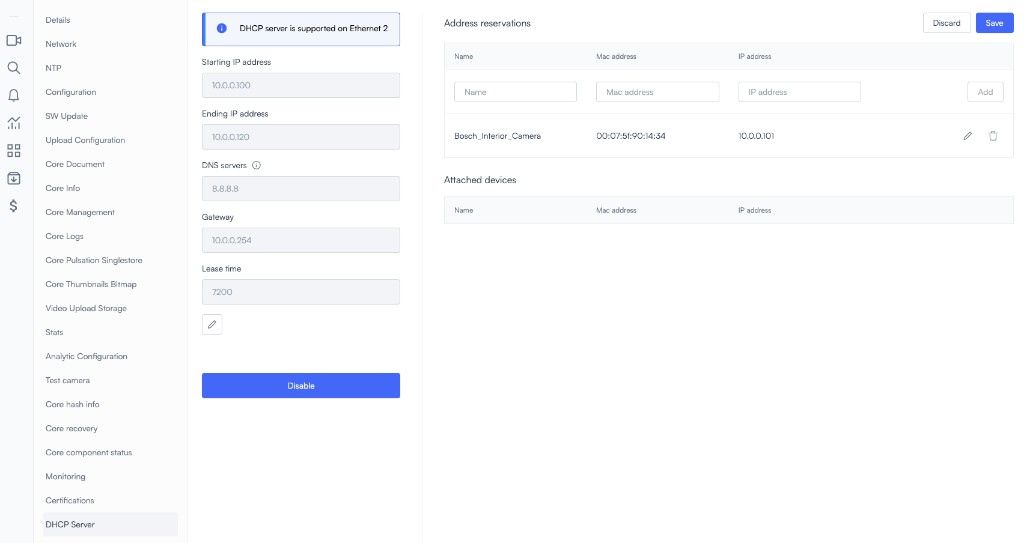
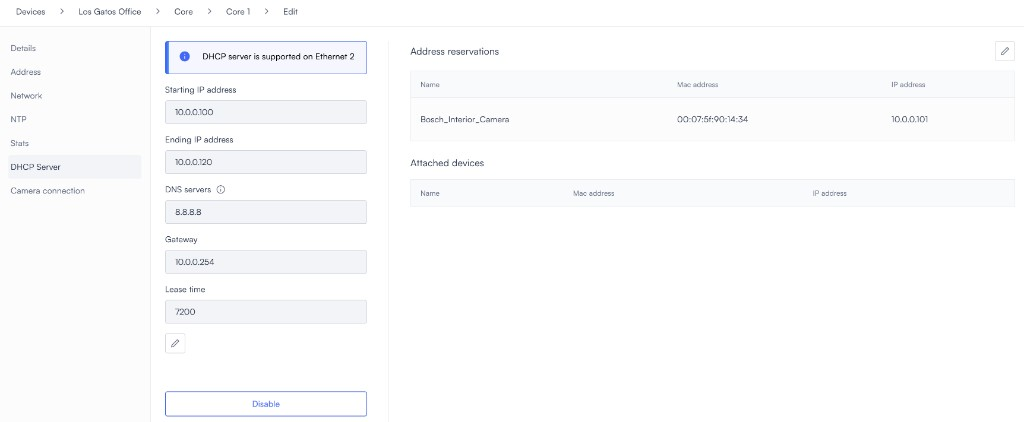
updated images and steps

diff --git a/set-up-cameras-and-devices/network-and-infrastructure-configuration/configure-lumana-core-as-a-dhcp-server.md b/set-up-cameras-and-devices/network-and-infrastructure-configuration/configure-lumana-core-as-a-dhcp-server.md
@@ -24,13 +24,15 @@ When enabled, the DHCP server on Lumana Core provides essential networking servi
 
 1. In the left sidebar, select the <img src="../../.gitbook/assets/dhcp-sidebar-cameras-icon.png" alt="Cameras icon in the sidebar." data-size="line"> **Cameras** icon.
 
-2. Select the Core where you want to enable DHCP server and select the <img src="../../.gitbook/assets/dhcp-edit-pencil-icon.png" alt="Edit pencil icon." data-size="line"> pencil icon.
+2. Select **Devices**. Under **Devices by types**, select **Cores** (for example the **1 core** tile). On the **Devices list**, apply the **Cores** filter if it is not already active. Then select **Edit location** <img src="../../.gitbook/assets/dhcp-edit-pencil-icon.png" alt="Edit pencil icon." data-size="line"> on the row for the location that contains the Core where you want DHCP.
 
-<div align="center" data-with-frame="true"><img src="../../.gitbook/assets/dhcp-edit-core-location.png" alt="Cores list, edit Core." width="563"></div>
+<div align="center" data-with-frame="true"><img src="../../.gitbook/assets/dhcp-devices-by-types-core-tile.png" alt="Devices overview with Devices by types and Core tile selected." width="563"></div>
 
-3. Open **DHCP Server** and enter the required parameters.
+<div align="center" data-with-frame="true"><img src="../../.gitbook/assets/dhcp-devices-list-edit-location.png" alt="Devices list filtered to Cores with Edit location on the location row." width="563"></div>
 
-<div align="center" data-with-frame="true"><img src="../../.gitbook/assets/dhcp-server-configuration-form.png" alt="DHCP Server configuration form." width="563"></div>
+3. Select **DHCP Server** in the sidebar, enter the required parameters, then select **Enable**.
+
+<div align="center" data-with-frame="true"><img src="../../.gitbook/assets/dhcp-server-configuration-form.png" alt="Edit Core with DHCP Server selected: pool fields, DNS, gateway, lease time, and Enable." width="563"></div>
 
 ## Configuration parameters
 
@@ -66,4 +68,4 @@ Lumana Core supports DHCP address reservation, allowing specific devices to alwa
 - Ensuring stable IP addresses for critical infrastructure such as servers and other network devices
 - Preventing IP conflicts by pre-assigning known addresses
 
-<div align="center" data-with-frame="true"><img src="../../.gitbook/assets/dhcp-address-reservation-ui.png" alt="DHCP Server with address reservations and attached devices." width="563"></div>
+<div align="center" data-with-frame="true"><img src="../../.gitbook/assets/dhcp-address-reservation-ui.png" alt="DHCP Server enabled with pool settings, Disable, address reservations table, and attached devices." width="563"></div>

diff --git a/set-up-cameras-and-devices/network-and-infrastructure-configuration/lumana-core-hardware-specifications.md b/set-up-cameras-and-devices/network-and-infrastructure-configuration/lumana-core-hardware-specifications.md
@@ -1,3 +1,48 @@
 # Lumana Core hardware specifications
 
-### Coming soon
+Lumana Core is the on-site appliance that runs **VMS+**: managed video, AI-assisted analytics, and browser-based administration. This page lists physical ports, default Ethernet behavior, environmental limits, and other hardware details you need for rack or bench installation.
+
+For full network onboarding steps, see [Connect Lumana Core to the network](https://support.lumana.ai/hc/en-us/articles/11458480360850).
+
+## Rear panel
+
+<div align="center" data-with-frame="true"><img src="../../.gitbook/assets/set-up-cameras-and-devices/network-and-infrastructure-configuration/lumana-core-rear-panel-connectivity.png" alt="Lumana Core rear panel with POWER, HDMI 1 and 2, USB 3.0, Ethernet 1 and 2, DC IN, and ground terminal." width="563"></div>
+
+## Installation
+
+### Power connection
+
+Lumana Core ships with a **120 V** AC to **12 V DC** power adapter. Connect it to the **POWER** input on the rear panel.
+
+### Network connection
+
+Lumana Core has **two 1 GbE RJ-45** ports. You can use one link toward your broader network and one toward a dedicated camera LAN, depending on your topology.
+
+Out of the box, **Ethernet 1** uses **DHCP**. **Ethernet 2** uses a static **192.168.1.158** address with subnet mask **255.255.255.0**.
+
+For detailed steps, see [Connect Lumana Core to the network](https://support.lumana.ai/hc/en-us/articles/11458480360850).
+
+## Product specifications
+
+| Feature | Details |
+| --- | --- |
+| NVIDIA GPU SoC module | NVIDIA® Jetson |
+| Networking | 2× GbE RJ-45 |
+| Display output | For internal use |
+| Operating temperature | 0 °C ~ 50 °C |
+| Storage temperature | −40 °C ~ 85 °C |
+| Relative humidity | 40 °C @ 95%, non-condensing |
+| Storage | 2 TB / 4 TB SSD |
+| Expansion header | 20 pins: 4× GPIOs |
+| Input power | 100–240 V ~ 1.8 A (50–60 Hz) |
+| Power consumption | 3.5 W ~ 28.5 W |
+| Certifications | CE, FCC |
+| Country of origin | Taiwan |
+
+## Product dimensions (mm)
+
+<div align="center" data-with-frame="true"><img src="../../.gitbook/assets/set-up-cameras-and-devices/network-and-infrastructure-configuration/lumana-core-rear-panel-dimensions.png" alt="Technical drawing of Lumana Core rear panel with port layout and dimensions in millimeters." width="563"></div>
+
+## Related configuration
+
+When Core is on your network, you may also need [Firewall requirements](firewall-requirements.md) or [Configure Lumana Core as a DHCP server](configure-lumana-core-as-a-dhcp-server.md).

diff --git a/set-up-cameras-and-devices/set-up-a-static-ip-address.md b/set-up-cameras-and-devices/set-up-a-static-ip-address.md
@@ -28,11 +28,11 @@ You likely do not have DHCP if every device uses manually entered IPs and nothin
 2. In Lumana, collect the **IP address** and **MAC address** you will map on the DHCP server. If the camera is not listed under **Devices** yet, [add the camera to your organization](../getting-started/connect-a-camera.md#connect-a-camera) first.
    - From **Devices**, choose the camera and note the **IP address**.
 
-   <div align="center" data-with-frame="true"><img src="../.gitbook/assets/devices-list-ip-address.png" alt="Devices list showing the camera IP address." width="563"></div>
+   <div align="center" data-with-frame="true"><img src="../.gitbook/assets/devices-list-ip-address.png" alt="Devices list showing the IP address column for cameras grouped by location; MAC address column also visible." width="563"></div>
 
    - Select the **Edit camera** icon <img src="../.gitbook/assets/edit-camera-icon-inline.png" alt="Edit camera pencil icon." data-size="line">, then select **Details** and copy the **MAC address**.
 
-   <div align="center" data-with-frame="true"><img src="../.gitbook/assets/camera-details-mac-address.png" alt="Camera details page showing the MAC address field." width="563"></div>
+   <div align="center" data-with-frame="true"><img src="../.gitbook/assets/camera-details-mac-address.png" alt="Edit camera, Details tab, showing the MAC address field." width="563"></div>
 
 {% hint style="warning" %}
 Do not forget to create a DHCP reservation for the camera’s address on the router or Core. Otherwise, the server can still offer that address to another device, and you can get an IP conflict.

diff --git a/set-up-cameras-and-devices/create-camera-shortcuts.md b/set-up-cameras-and-devices/create-camera-shortcuts.md
@@ -18,7 +18,7 @@
 
 In **Edit camera**, open **Shortcuts** to see the live image, shortcut pins, **Add shortcut**, and **Save**.
 
-<div align="center" data-with-frame="true"><img src="../.gitbook/assets/set-up-cameras-and-devices/create-camera-shortcuts/edit-camera-shortcuts.png" alt="Edit camera with Shortcuts selected, live image, Add shortcut, and Save." width="563"></div>
+<div align="center" data-with-frame="true"><img src="../.gitbook/assets/set-up-cameras-and-devices/create-camera-shortcuts/edit-camera-shortcuts.png" alt="Edit camera with Shortcuts selected: live preview, Add shortcut, and Save." width="563"></div>
 
 1. Open the camera where you want shortcuts, then select **Edit camera**.
 2. In the left sidebar, select **Shortcuts**.
@@ -30,7 +30,7 @@ In **Edit camera**, open **Shortcuts** to see the live image, shortcut pins, **A
 
 Go back to the camera’s live view. A shortcut can open the linked camera in a picture-in-picture panel, or switch the main view depending on your layout.
 
-<div align="center" data-with-frame="true"><img src="../.gitbook/assets/set-up-cameras-and-devices/create-camera-shortcuts/live-view-shortcut-picture-in-picture.png" alt="Live view with picture-in-picture shortcut to another camera." width="563"></div>
+<div align="center" data-with-frame="true"><img src="../.gitbook/assets/set-up-cameras-and-devices/create-camera-shortcuts/live-view-shortcut-picture-in-picture.png" alt="Live view with a picture-in-picture shortcut; the inset shows another camera feed labeled with its name." width="563"></div>
 
 ## Next steps
 

diff --git a/set-up-cameras-and-devices/network-and-infrastructure-configuration/local-time-and-ntp-configuration.md b/set-up-cameras-and-devices/network-and-infrastructure-configuration/local-time-and-ntp-configuration.md
@@ -6,13 +6,13 @@ The time shown in live view and playback is determined by the time zone configur
 
 Update the location time zone so live view and playback show the correct local time for the site. This keeps timestamps aligned with the location where the Core and cameras are installed.
 
-1. Hover the name of the relevant location and select **Edit location**.
+1. Open **Devices** → **Devices list**. Use the **Cores** filter if it helps you find the site. On the location row for the Core whose time zone you are changing, select **Edit location**.
 
-<div align="center" data-with-frame="true"><img src="../../.gitbook/assets/ntp-edit-location.png" alt="Edit location button on location card." width="563"></div>
+<div align="center" data-with-frame="true"><img src="../../.gitbook/assets/ntp-edit-location.png" alt="Devices list with Cores filter and Edit location on the location row." width="563"></div>
 
-2. Edit the **Time Zone** field.
+2. On the **Details** tab, set **Time Zone**, then select **Save**.
 
-<div align="center" data-with-frame="true"><img src="../../.gitbook/assets/ntp-location-timezone-field.png" alt="Edit Location, Time Zone field." width="563"></div>
+<div align="center" data-with-frame="true"><img src="../../.gitbook/assets/ntp-location-timezone-field.png" alt="Edit location dialog on Details with Time Zone field set to America/Los_Angeles." width="563"></div>
 
 ## Configure Network Time Protocol (NTP)
 

diff --git a/set-up-cameras-and-devices/enable-ptz-control.md b/set-up-cameras-and-devices/enable-ptz-control.md
@@ -24,7 +24,7 @@ Lumana’s Remote PTZ (Pan-Tilt-Zoom) Control allows you to adjust camera direct
 
     * Select the <img src="../.gitbook/assets/dhcp-edit-pencil-icon.png" alt="Edit camera pencil icon." data-size="line"> **Edit camera** control.
 
-    <div align="center" data-with-frame="true"><img src="../.gitbook/assets/live-view-edit-camera-button.png" alt="Camera view with Edit camera highlighted." width="563"></div>
+    <div align="center" data-with-frame="true"><img src="../.gitbook/assets/live-view-edit-camera-button.png" alt="Camera live view with Settings wrench control highlighted in the top toolbar." width="563"></div>
 3. Configure PTZ settings
 
     * Navigate to the **PTZ** section.
@@ -36,7 +36,7 @@ Lumana’s Remote PTZ (Pan-Tilt-Zoom) Control allows you to adjust camera direct
         `{camera_IP}:80/onvif/device_service`
     * Specify the **port** (if different from default `80`).
 
-    <div align="center" data-with-frame="true"><img src="../.gitbook/assets/ptz-settings-onvif-address-port.png" alt="PTZ settings with ONVIF driver address and port fields." width="563"></div>
+    <div align="center" data-with-frame="true"><img src="../.gitbook/assets/ptz-settings-onvif-address-port.png" alt="Edit camera PTZ tab: PTZ support on, Onvif driver, X address, and port number." width="563"></div>
 4. Save configuration
    * Select **Save** to apply changes.
 

diff --git a/set-up-cameras-and-devices/set-up-a-camera-floor-plan.md b/set-up-cameras-and-devices/set-up-a-camera-floor-plan.md
@@ -19,11 +19,11 @@ Floor plans tie each camera to a location on your site, which makes coverage eas
 
 1. Go to Floor Plans menu at the top left corner of the screen
 
-<div align="center" data-with-frame="true"><img src="../.gitbook/assets/configuring-cameras-and-devices/set-up-a-camera-floor-plan/floor-plans-menu-overview.png" alt="Floor Plans menu overview." width="563"></div>
+<div align="center" data-with-frame="true"><img src="../.gitbook/assets/configuring-cameras-and-devices/set-up-a-camera-floor-plan/floor-plans-menu-overview.png" alt="Home view with top navigation; select Floor plans to open floor plan setup." width="563"></div>
 
 2. Select **Create building**
 
-<div align="center" data-with-frame="true"><img src="../.gitbook/assets/configuring-cameras-and-devices/set-up-a-camera-floor-plan/create-building-floor-plans.png" alt="Floor Plans page with building list; arrow points to the Create building button." width="563"></div>
+<div align="center" data-with-frame="true"><img src="../.gitbook/assets/configuring-cameras-and-devices/set-up-a-camera-floor-plan/create-building-floor-plans.png" alt="Floor plans view with Floor plans tab selected; select Create building in the sidebar under your site." width="563"></div>
 
 3. Enter a **Building name** and select **Create** to create the building
 
